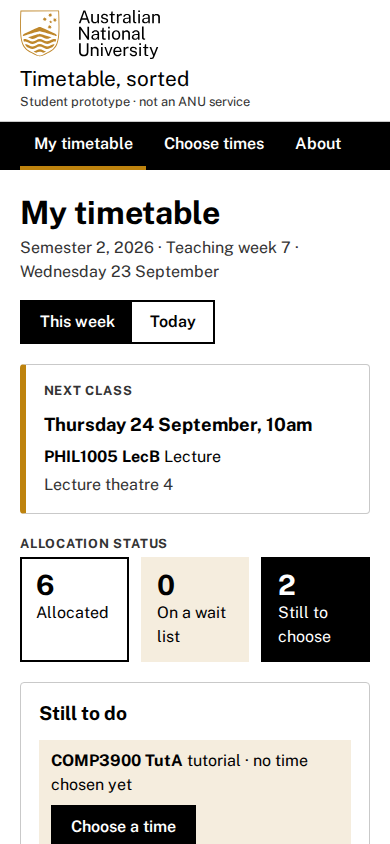
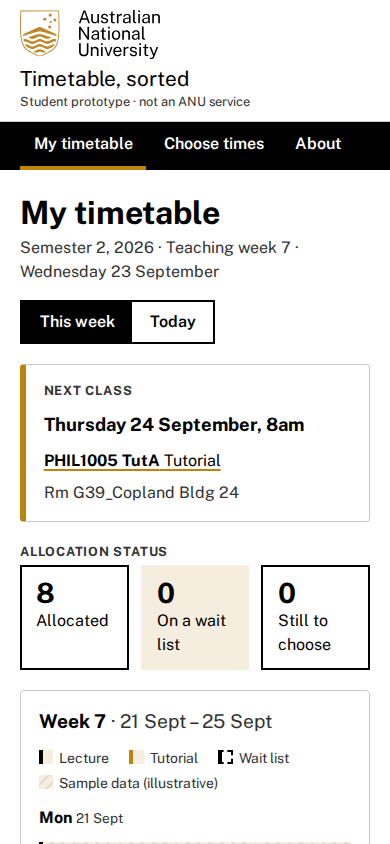
docs: README and harness notes for the real MyTimetable data
README: every class opens its full record; which data is real (the
eight MyTT records) and which is sample (COMP3500 LecA, alternative
tutorial times); the new spec row. CLAUDE.md: type real records into
the test separately from the seed; real data breaks layouts sample data
fitted. Refreshed README screenshots.

diff --git a/README.md b/README.md
@@ -29,18 +29,35 @@ table that scrolls sideways.
 
 ![The same page at 390px: the week becomes a per-day list](public/after-phone.png)
 
-**True where it claims to be.** These details are real: the course codes,
-titles and class numbers, the semester dates (27 July to 30 October 2026, from
-ANU Programs and Courses), and the teaching break (from ANU's CBE Student
-Engagement Planner 2026). Class **times, rooms and seat counts are
-illustrative**, because MyTT's real ones sit behind a login. Every page
-showing them says so. COMP3500 appears in MyTT as "Computing Team Project",
-but Programs and Courses 2026 calls it "Software Engineering Project". The
-app uses the Programs and Courses title.
+**Every class opens its full record.** Click any class on the timetable, in
+Today, in the next-class card or on Choose times. A details page opens with
+MyTimetable's own fields: type, group, activity, description, day, time,
+campus, location, staff, duration, dates and seats. It also lists every
+class date, with the next one marked. An activity in two parts, such as
+COMP3900 TutA/07 (a tutorial, then a drop-in), shows both parts.
+
+**True where it claims to be.** The eight allocated activities are the
+student's real MyTimetable records, copied field for field on 23 September
+2026. One correction: the export printed "O?Donoghue", a lost apostrophe.
+ANU's map names the building Lowitja O’Donoghue Cultural Centre. Each
+record's own date list drives the week view and the calendar feed. So a
+Monday class disappears on 5 October, when MyTimetable doesn't list it.
+Course codes, titles, class numbers and semester dates are checked against
+ANU Programs and Courses. Two things are **sample data**, hatched on the
+grid and labelled on their pages:
+
+- COMP3500's lecture, whose details weren't provided
+- the alternative tutorial times under "Choose times", which MyTimetable
+  only shows behind its login
+
+COMP3500 appears in MyTT as "Computing Team Project", but Programs and
+Courses 2026 calls it "Software Engineering Project". The app uses the
+Programs and Courses title.
 
 | What | How it's held |
 | --- | --- |
 | Choosing a time survives a reload; wait list keeps your seat; read-only groups refuse | `spec/crit-7.test.ts`, over HTTP against the built server |
+| Each real record's details page carries every MyTT field | `spec/crit-7.test.ts`, against a table transcribed separately from the seed |
 | Clash rule is half-open (9–10 and 10–11 don't clash); week numbers; next class; `.ics` output | literal fixtures in `spec/crit-7.test.ts` |
 | No sideways scroll, nothing clipped, 24px targets, 12px text, axe incl. contrast | `pnpm audit:browser`, in Chromium at nine widths |
 | Whether it's actually easier than MyTT | judgement: the crit |

diff --git a/CLAUDE.md b/CLAUDE.md
@@ -397,3 +397,20 @@ Astro routes markdown images through `/_image`. Its default service needs
 `passthroughImageService()`. `pnpm audit:browser` scrolls each image into
 view, because lazy images don't load offscreen and would read as broken.
 Then it fails on `naturalWidth === 0`.
+
+### Real records get a test table typed separately from the seed
+
+When the student pastes real data (C7: eight MyTimetable records), write
+the expected values into the test from the paste itself, not by importing
+the seed. A test that reads the seed agrees with any typo in it. Verified
+by changing one staff name by one letter: exactly that record went red.
+Fix obvious export damage (`O?Donoghue` is a lost apostrophe) against the
+real source, and say so in the seed and the README.
+
+### Real data breaks layouts that sample data fitted
+
+Sample rooms were short. The real ones ("Manning Clark Hall Rm 1.04_Lowitja
+O’Donoghue Cultural Centre Bldg 153") and a 30-minute drop-in clipped
+every box that had fitted. Put the full value on the details page, and give
+the grid a short form. Re-run `pnpm audit:browser` whenever the data
+changes, not only when the CSS does.
